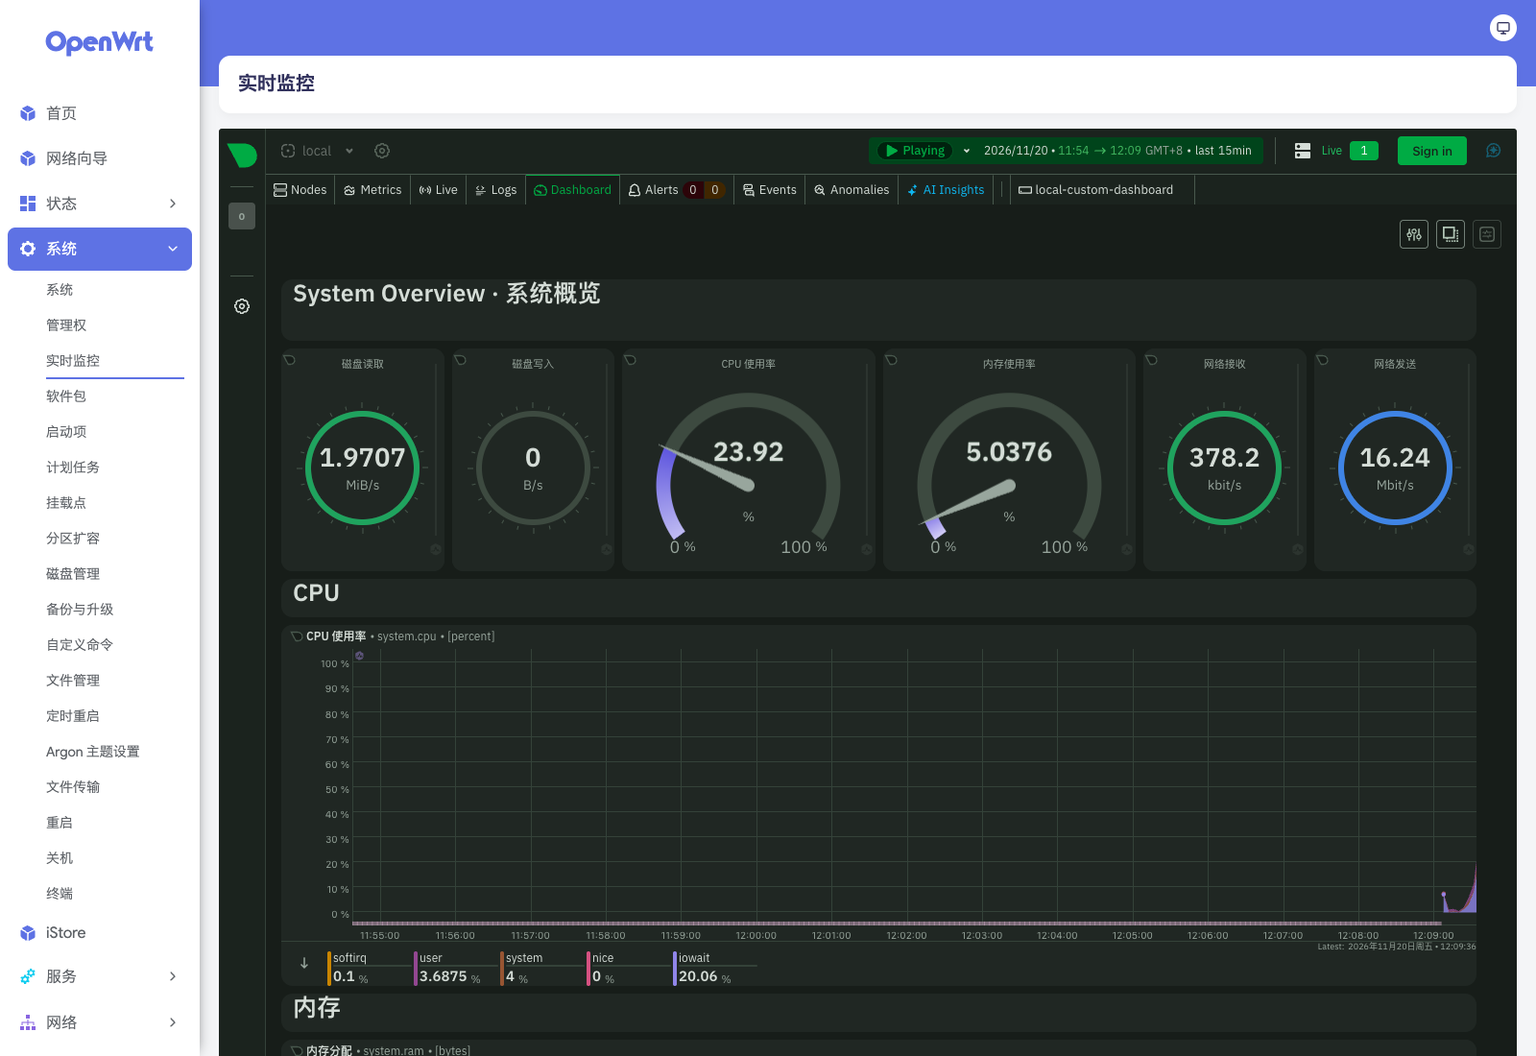
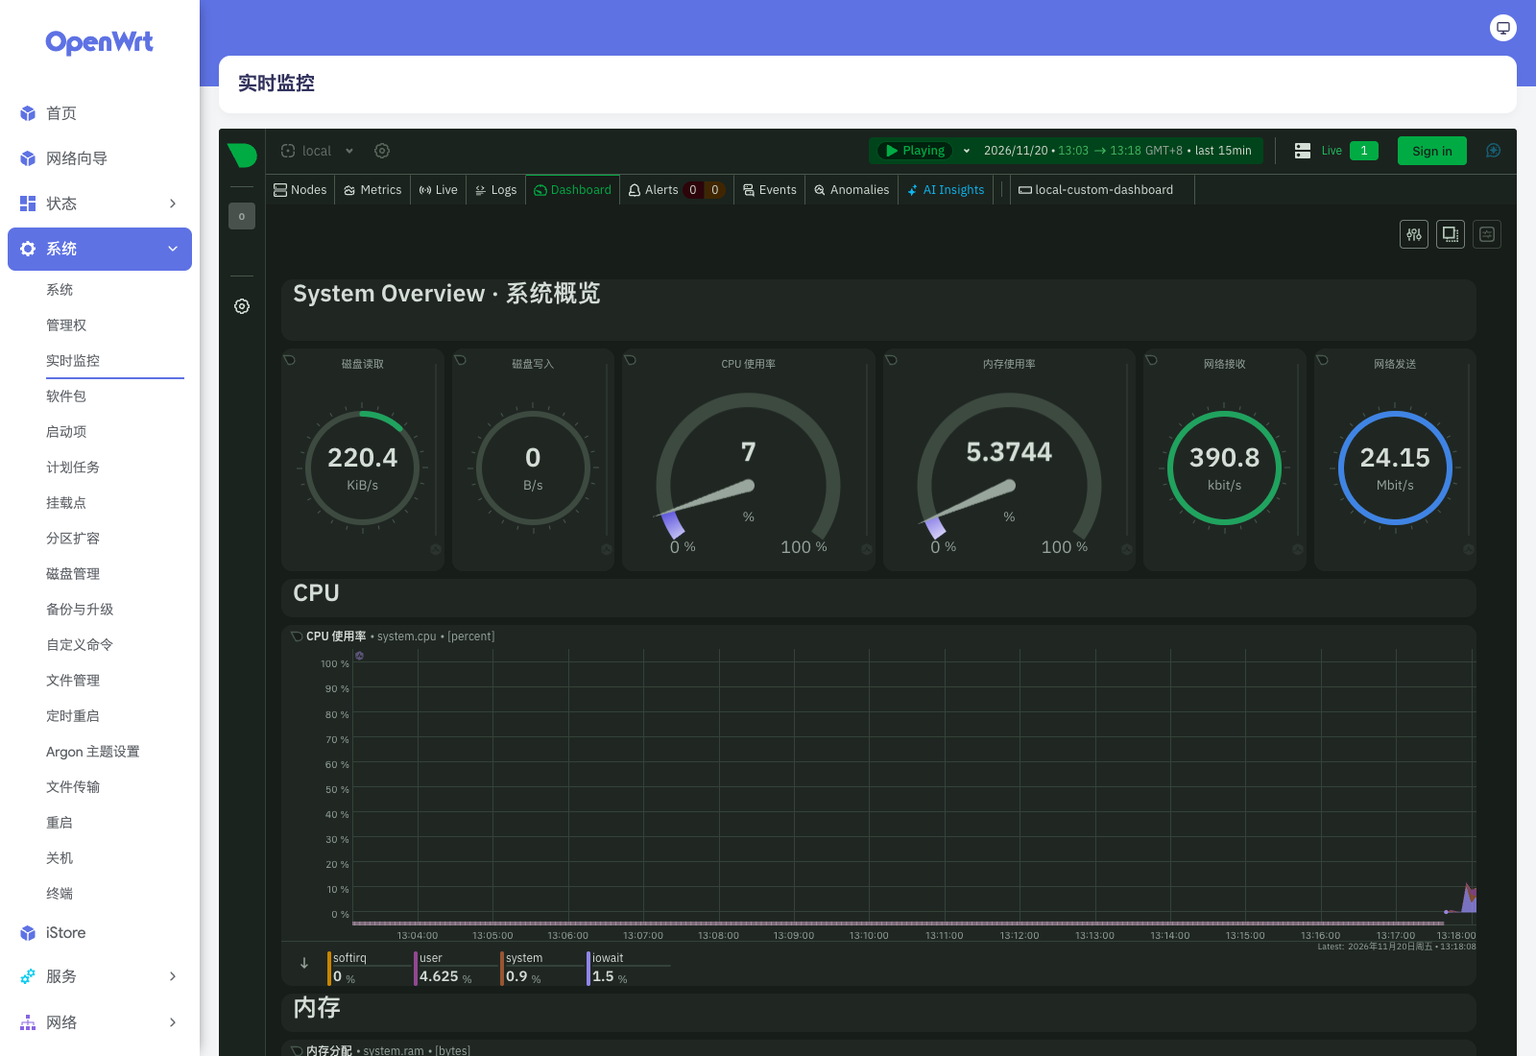
Record final offline image and per-interface acceptance for release .2

diff --git a/docs/netdata-overview-acceptance-20261120.md b/docs/netdata-overview-acceptance-20261120.md
@@ -1,67 +1,81 @@
-# Netdata 预置概览：实现与最终镜像验收
+# Netdata 原生概览与逐接口流量验收
 
-本轮完成了 Netdata 的本地模板初始化，保留 **2.13.0 原生 Dashboard 和原生图表渲染器**。LuCI「系统 → 实时监控」默认打开六仪表、CPU、内存、磁盘、网络和传感器分组的 System Overview。
+[v25.12.6-20261120.2](https://github.com/jearton/openwrt-pro/releases/tag/v25.12.6-20261120.2) 保留 **Netdata 2.13.0 原生 Dashboard、图表渲染器和编辑器**，通过随固件打包的模板初始化每个新浏览器。LuCI「系统 → 实时监控」默认显示 System Overview、六仪表、CPU、内存、磁盘、网络和传感器分组。
 
-此前[原生能力验证](netdata-native-dashboard-validation-20261120.md)中“换浏览器自动读取布局”未通过；本轮新增初始化适配后通过。不是把此前失败改写为成功，也没有恢复已归档的旧版前端。
+此前[原生能力验证](netdata-native-dashboard-validation-20261120.md)中“换浏览器自动读取布局”未通过；本轮补齐初始化后通过。未恢复已归档的旧版前端。先前 r4 的草稿制品没有发布，本次最终制品为 r5，包含逐接口增强。
+
+## 网络部分
+
+- 原生 `network-interfaces` 表格分别显示每个接口的收发速率、包速率、丢包和状态；可按名称、类型筛选和排序。接口名较长时可调整原生列宽。
+- 两张原生曲线分别显示 **逐接口 RX、逐接口 TX**，按 `net.net` 的 instance 分组，不把全部接口压成一个总量。
+- 物理口、网桥、VLAN、veth、隧道、bond 聚合口与成员口各自呈现。原生 Type 列区分 physical / virtual，具体接口按名称识别，不将网桥、bond、VLAN伪装成物理接口。
+- 新增接口自动发现，无须重新导入布局。保留 `lo`、IFB 等默认会被跳过的接口；部分新虚拟接口存在上游 **40 秒发现延迟**，未修改采集核心来绕过该机制。
+- 同一数据包会经过物理口、bond、VLAN、网桥等多层，**不能直接相加当作总流量**。
+
+最终镜像的隔离实验在页面已经打开后创建 bond、两个 veth 成员、VLAN、WireGuard 和 IFB。表格与历史曲线自动发现全部 10 个接口；4 Mbit/s TCP 试验中，bond、VLAN 和活动成员分别采到 4.20 Mbit/s，备用成员和未发流量的接口为 0。测试后删除全部临时接口、命名空间及 iperf 进程，网络、防火墙、DHCP 配置摘要保持不变。[逐接口证据](evidence/netdata-overview-20261120/interfaces.json)。
+
+![最终镜像：各接口实时流量](images/netdata-overview-20261120/interfaces-live.png)
+
+![最终镜像：逐接口 RX/TX 曲线](images/netdata-overview-20261120/interfaces-curves.png)
 
 ## 实现与升级维护
 
-- [preset.json](../packages/netdata/files/overview/preset.json) 随固件提供默认布局；[bootstrap.js](../packages/netdata/files/overview/bootstrap.js) 在原生应用启动前初始化当前浏览器的 IndexedDB，然后进入原生 Dashboard。
-- 两个全新浏览器分别自动获得相同预置布局。**个人修改仍在各自浏览器保存，不跨浏览器同步**；重新进入入口或重启路由器不会覆盖已保存布局，包括主动清空的布局。
-- 只初始化原生未保存的空白记录。遇到未知存储格式或存储被禁用时显示重试和完整指标页入口，不静默覆盖数据。
-- 适配固定于 Netdata 2.13.0 的原生缓存结构和路由规则。默认主机名 OpenWrt 对应原生 slug `openwrt`，不能直接把显示名称拼入路由。
-- [资源准备脚本](../packages/netdata/prepare-overview.py) 将页面资源限制为本地来源，并补齐原生字体的根路径；不修改原生 JS 渲染代码。浏览器对云、registry 等外部资源的尝试由 CSP 阻断，不影响本地图表。
-- [提取脚本](../packages/netdata/extract-asset.sh) 解析 makeself 资产声明的边界，不执行上游安装器；2.13.0 的头部为 838 行。
-- [概览打包补丁](../patches/custom-ipv4/netdata-overview.patch) 将初始化文件打进 Netdata 2.13.0-r4；[LuCI 补丁](../patches/custom-ipv4/netdata-luci-bundled-dashboard.patch) 升为 0.1-r2，标题为“实时监控”，默认入口包含资源版本标识。
+[preset.json](../packages/netdata/files/overview/preset.json) 提供版本 2 模板；[bootstrap.js](../packages/netdata/files/overview/bootstrap.js) 在原生应用启动前初始化 IndexedDB，再进入本机原生 Dashboard。默认 OpenWrt 主机名对应原生 slug `openwrt`，不能直接将显示名称拼入路由。
 
-后续升级核心时必须重新验证原生缓存结构、空间 slug 和图表参数；仅修改版本号不足以确认兼容。[浏览器验收脚本](../scripts/check-netdata-overview.cjs)和 [CI 工作流](../.github/workflows/check-netdata.yml)会运行真实原生页面，检查新浏览器初始化、实时 API 数值、原生编辑保存和存储失败回退。
+两个空白浏览器会获得相同模板。个人修改在各浏览器独立保存，**不跨浏览器同步**。原生 Save 后的布局、主动清空的布局均保留；升级模板不会覆盖已有个人布局。未知缓存结构或禁用存储时显示恢复入口，不静默覆盖记录。
+
+接口函数卡必须绑定当前 Agent 的节点 ID。初始化动态读取本机 ID；后续身份变化时，只重新绑定属于本模板、仍指向此前本机的函数卡，不重置个人布局或覆盖用户手动选择的其他节点。
+
+[资源准备脚本](../packages/netdata/prepare-overview.py) 限制页面资源为本地来源，补齐原生字体的根路径；不改原生 JS 渲染代码。云、registry 等外部资源由 CSP 阻断，不影响本地图表。[资产提取脚本](../packages/netdata/extract-asset.sh) 仅解析 makeself 声明的边界，不执行上游安装器。
+
+[概览补丁](../patches/custom-ipv4/netdata-overview.patch) 将资源打进 **Netdata 2.13.0-r5**；[LuCI 补丁](../patches/custom-ipv4/netdata-luci-bundled-dashboard.patch) 为 **0.1-r3**，统一“实时监控”标题和默认地址。接口采集设置位于 [netdata.conf](../packages/netdata/files/netdata.conf)。完整定制见[补丁索引](../patches/README.md)。
+
+核心升级后必须重新验证原生缓存结构、路由、图表参数和函数节点绑定。[浏览器验收脚本](../scripts/check-netdata-overview.cjs)与[CI](../.github/workflows/check-netdata.yml)运行真实原生页面，等待有效采样后检查，不把 HTTP 200 当作实时图表通过。
 
 ## 最终制品
 
-[v25.12.6-20261120.1](https://github.com/jearton/openwrt-pro/releases/tag/v25.12.6-20261120.1) 基于既有 OpenWrt 25.12.6 x86/64 方案，含 469 个包。除 Netdata 2.13.0-r4、LuCI 0.1-r2 及随包界面资源，本轮没有改变既有网络功能、DNS 策略或终端认证方案。内核模块与打包内核 ABI 逐项匹配；`kmod-bonding` 保留。
+基于 OpenWrt 25.12.6 x86/64，含 469 个包。除 Netdata、LuCI 入口、概览及接口采集默认值，本轮未改变已有 DNS、终端认证或网络策略。全部包版本和内核模块 ABI 逐项匹配；`kmod-bonding` 保留。
 
 | 制品 | SHA256 |
 | --- | --- |
[6 lines of base64/hex data omitted]
 
-同一镜像经过 189、PVE、Mac 校验。PVE 导入后的全新磁盘在首次启动前也与原始镜像 SHA256 一致。先前测试盘没有作为最终产物发布。
+189、PVE、Mac 的同一制品均校验一致。导入全新 disk-21 后，在首次启动前再次核对原始磁盘摘要一致。没有将配置过的实验盘作为发布产物。
 
-## 验收结果
+## 最终镜像验收
 
-在 9000 导入上述最终镜像到新磁盘首次启动，只设置实验 LAN 和实验登录凭证。验收时虚拟 WAN 网卡断开，路由器仅有实验 LAN 路由，**没有默认路由**；Mac Chrome 同时阻断所有非本地页面请求。
+9000 全新安装上述镜像，仅设置实验 LAN 和实验登录凭证。测试时 WAN 网卡断开，路由器只有实验 LAN 路由，**无默认路由**；自动化 Chrome 同时阻断非本地来源，Safari 使用实际 macOS 原生应用。
 
 | 项目 | 结果 | 证据 |
 | --- | --- | --- |
-| 最终镜像全新安装与默认自启 | 通过 | 实际运行 Netdata 2.13.0-r4、LuCI 0.1-r2；Netdata、ttyd 为 running |
-| 离线，无云账号 | 通过 | WAN 断开；全新 Chrome 加载随包资源，六个原生仪表与曲线显示；`/api/v3/me` 为 `auth:none`、云账号为 null |
-| 换浏览器自动加载预置布局 | 通过 | 两份相互独立的 Chrome 存储获得相同布局；实际 Safari 在新的来源首次访问也自动显示预置概览，没有手工导入 |
-| LuCI 默认页面与中文标题 | 通过 | 从实际“系统 → 实时监控”页面进入，标题为实时监控，iframe 自动进入原生 Dashboard |
-| 实时数据 | 通过 | CPU、RAM、系统磁盘 I/O、网络 API 返回有限数值并绘图，不仅检查 HTTP 200 |
-| 原生编辑和个人布局保留 | 通过 | 使用原生编辑器修改、Save 后重新进入默认入口，记录不被重置 |
-| 路由器离线重启 | 通过 | Netdata、ttyd 自动启动；旧浏览器保留修改且恢复实时 CPU 数值，全新浏览器自动初始化 |
-| 存储异常恢复 | 通过 | 禁止 IndexedDB 时出现恢复入口；未知记录保留，不覆盖 |
-| IPv6 和实验 LAN | 通过 | 内核 `ipv6.disable=1`，无 IPv6 地址文件；实验桥保持无物理上联，9001 保持关闭 |
+| 全新启动、自启 | 通过 | Netdata 2.13.0-r5、LuCI 0.1-r3；Netdata、ttyd 均 running |
+| 离线、无云账号 | 通过 | 本地资源显示六仪表和曲线；`/api/v3/me` 为 `auth:none`、云账号 null |
+| 换浏览器自动初始化 | 通过 | 两份独立 Chrome 存储布局相同；实际 Safari 首次访问自动加载概览、接口表和 RX/TX |
+| LuCI 默认入口、中文标题 | 通过 | 从实时监控进入原生 Dashboard，标题为“实时监控” |
+| 实时数据和逐接口图表 | 通过 | CPU/RAM/I/O/网络 API 有有限数值；10 个动态接口及实际试验流量验证 |
+| 原生编辑保存 | 通过 | 修改并 Save 后重新进入保留；本机函数重新绑定不覆盖个人记录 |
+| 离线重启 | 通过 | 服务自动启动；旧浏览器保留修改且接口表恢复；全新浏览器 8 项检查再次通过 |
+| 存储异常 | 通过 | 未知记录保留；拒绝 IndexedDB 时显示恢复入口 |
+| IPv6、实验隔离与清理 | 通过 | IPv6 禁用；桥无物理上联；9001 保持关闭；临时密钥、Agent、代理和转发均撤销 |
 
-[自动化浏览器结果](evidence/netdata-overview-20261120/browser.json)、[重启服务结果](evidence/netdata-overview-20261120/reboot.json)、[重启后原浏览器结果](evidence/netdata-overview-20261120/reboot-browser.json)。CI 的[仓库检查](https://github.com/jearton/openwrt-pro/actions/runs/44672136940)和[原生浏览器检查](https://github.com/jearton/openwrt-pro/actions/runs/44672137181)均通过。该浏览器 CI 使用独立 Linux Agent；PVE 的全新镜像验收是另外执行的，二者没有混称。
+[首次浏览器结果](evidence/netdata-overview-20261120/browser.json)、[LuCI](evidence/netdata-overview-20261120/luci.json)、[Safari](evidence/netdata-overview-20261120/safari.json)、[重启服务](evidence/netdata-overview-20261120/reboot.json)、[重启后原浏览器](evidence/netdata-overview-20261120/reboot-browser.json)、[重启后全新浏览器](evidence/netdata-overview-20261120/reboot-browser-fresh.json)。
 
-## 截图
-
-最终镜像的 LuCI 默认入口，尚未修改浏览器布局：
+代码提交 bf72ec0 的[原生浏览器 CI](https://github.com/jearton/openwrt-pro/actions/runs/44679379571)和[仓库 CI](https://github.com/jearton/openwrt-pro/actions/runs/44679379448)通过。浏览器 CI 使用独立 Linux Agent；189 的镜像构建、PVE 全新安装与 GitHub 完整源码构建是独立证据，不混称。此前[完整源码 CI 基线](https://github.com/jearton/openwrt-pro/actions/runs/44575439007)通过，不能将其称为本次 r5 的完整源码构建结果。
 
 ![LuCI 默认 System Overview](images/netdata-overview-20261120/luci-overview.png)
 
-使用原生编辑器修改后，路由器离线重启，原浏览器保留布局和实时图表：
+![实际 Safari 离线首次加载](images/netdata-overview-20261120/safari-overview.png)
 
-![重启后保留个人布局](images/netdata-overview-20261120/reboot-preserved.png)
+![离线重启后保留个人布局](images/netdata-overview-20261120/reboot-preserved.png)
 
 ## 边界与回滚
 
-本轮“通过”针对上述 Netdata 要求。实际物理温度、RPM、传感器驱动和吞吐性能未在 VM 中验收；没有指标时显示“未检测到指标”，不伪造零值。本轮 LuCI 嵌入验收使用 HTTP，未新增 HTTPS 监控嵌入适配。
+上述“通过”针对本轮 Netdata 要求。物理温度、RPM、驱动和吞吐性能未在 VM 验收；缺少传感器数据时显示“未检测到指标”，不伪造零值。LuCI 监控嵌入本轮使用 HTTP，未新增 HTTPS 适配。
 
-固件原有的 **Technitium DNSSEC 与默认 AliDNS DoH 对部分域名产生 SERVFAIL** 的问题仍未修复，见[既有扩展验收](vm-extended-validation-20261120.md)。不能据此报告固件所有功能全部通过。
+既有 **Technitium DNSSEC 与默认 AliDNS DoH 对部分域名返回 SERVFAIL** 的问题尚未修复，见[扩展验收](vm-extended-validation-20261120.md)。本次不能报告全部固件功能通过。
 
-升级前保留旧系统盘和配置。PVE 原 disk-16 保留，新镜像使用 disk-19；异常可在 9000 关机后切回原盘。物理机回滚优先使用保留的旧启动盘。当前浏览器个人布局可用原生编辑器导出；切换 Agent 版本前也应备份，不手工删除来源不明的浏览器记录。
+9000 保留最终 disk-21 运行，原 disk-16 以及中间测试盘保留；异常时关机切回旧盘。物理机升级前备份配置并保留旧启动盘。浏览器个人布局可用原生编辑器导出，不删除来源不明的记录。
 
-结束状态：9000 保留最终镜像 disk-19 运行，原 disk-16 作为回滚盘保留；验收用 WAN 断链已恢复，9001 仍关闭。13 台非目标 VM 配置和宿主路由逐项核对未变。[隔离回读](evidence/netdata-overview-20261120/isolation.json)。临时普通用户 Agent、浏览器代理和本次管理密钥在验收后关闭或撤销。
+验收后恢复实验 WAN 链路，9001 仍关闭；13 台非目标 VM 配置摘要、宿主路由和 9001 运行配置未变。9001 的说明文字回读从注释形式变成 description 字段，运行配置比较排除该显示格式差异，没有向该 VM 执行配置写入。[隔离回读](evidence/netdata-overview-20261120/isolation.json)、[清理结果](evidence/netdata-overview-20261120/cleanup.json)。

diff --git a/README.md b/README.md
@@ -2,7 +2,7 @@
 
 基于 OpenWrt 25.12.6 x86/64 的 IPv4 路由器定制方案。使用 APK，内置 LuCI、实时监控和原生 Technitium DNS。默认禁用 IPv6，镜像验收使用独立实验 LAN。AdGuard Home 随镜像提供，默认停用。
 
-最新发布：[v25.12.6-20261120.1](https://github.com/jearton/openwrt-pro/releases/tag/v25.12.6-20261120.1)。新增 Netdata 2.13.0 原生 System Overview，预置布局可离线、无云账号、跨浏览器自动初始化；[本轮镜像验收](docs/netdata-overview-acceptance-20261120.md)。含 `kmod-bonding`，Netdata、ttyd 默认自启；终端每次要求系统登录并填满窗口剩余高度。查看[登录与终端基线验收](docs/acceptance-20261120.md)及[补丁清单](patches/README.md)。
+最新发布：[v25.12.6-20261120.2](https://github.com/jearton/openwrt-pro/releases/tag/v25.12.6-20261120.2)。新增 Netdata 2.13.0 原生 System Overview、全部网络接口实时表格和逐接口 RX/TX 曲线，预置布局可离线、无云账号、跨浏览器自动初始化；[本轮镜像验收](docs/netdata-overview-acceptance-20261120.md)。含 `kmod-bonding`，Netdata、ttyd 默认自启；终端每次要求系统登录并填满窗口剩余高度。查看[登录与终端基线验收](docs/acceptance-20261120.md)及[补丁清单](patches/README.md)。
 
 已知问题：扩展验收发现默认 AliDNS DoH 配合 Technitium DNSSEC 校验时，部分公网域名返回 SERVFAIL，尚未修复。不能将本版本标为全部功能验收通过；通过项目、实验配置和未验证范围见[VM 扩展验收](docs/vm-extended-validation-20261120.md)。
 
@@ -46,7 +46,7 @@
 
 ### 本项目的补丁和调整
 
-- **Netdata**补上容器网卡采集器和配套脚本，修正配置权限，LuCI 默认加载预置 System Overview；初始化浏览器原生 Dashboard，保留个人布局，限制资源为本地来源。
+- **Netdata**补上容器网卡采集器和配套脚本，修正配置权限，LuCI 默认加载预置 System Overview；初始化浏览器原生 Dashboard，保留个人布局，限制资源为本地来源；分别显示物理口、网桥、VLAN、虚拟接口、bond 及其成员的流量，新增接口自动发现。
 - **LuCI**修正文件管理器布局和 iptables 后端识别，调整 DHCP/DNS、Macvlan 和实时监控的菜单入口。
 - **启动和首页**默认禁用 IPv6。Netdata 和 ttyd 随系统启动并监听 LAN。网页终端先校验 LuCI 会话和 WebSocket 来源，再要求每次输入系统用户名、密码；空密码不放行，并按窗口剩余高度展开。Quickstart 隐藏存储、下载和远程域名卡片。
 - **打包和兼容性**调整 Tailscale 配置文件归属、FileTransfer 的 APK 支持、EQoS 的 x86 构建、EQoS Plus 的 Bash 依赖、mwan3 的构建依赖，并固定 Technitium、Mihomo、DDNS-GO 和 Go 的构建输入。

diff --git a/patches/README.md b/patches/README.md
@@ -4,7 +4,7 @@
 
 | 组件 | 补丁 |
 | --- | --- |
-| Netdata | [配置权限](custom-ipv4/netdata-config-readable.patch)、[容器网卡采集](custom-ipv4/netdata-container-network.patch)、[原生概览打包](custom-ipv4/netdata-overview.patch)、[LuCI 本地仪表盘和「实时监控」标题](custom-ipv4/netdata-luci-bundled-dashboard.patch)；Netdata 2.13.0-r4 包含[本地模板与初始化适配](../packages/netdata/files/overview)、[CSP 与本地字体处理](../packages/netdata/prepare-overview.py)；LuCI 0.1-r2 默认打开原生概览。兼容性边界与验收见[记录](../docs/netdata-overview-acceptance-20261120.md) |
+| Netdata | [配置权限](custom-ipv4/netdata-config-readable.patch)、[容器网卡采集](custom-ipv4/netdata-container-network.patch)、[原生概览打包](custom-ipv4/netdata-overview.patch)、[LuCI 本地仪表盘和「实时监控」标题](custom-ipv4/netdata-luci-bundled-dashboard.patch)；Netdata 2.13.0-r5 包含[本地模板与初始化适配](../packages/netdata/files/overview)、[CSP 与本地字体处理](../packages/netdata/prepare-overview.py)；LuCI 0.1-r3 默认打开原生概览，含逐接口实时表格与 RX/TX 历史曲线；本机节点身份变化时只更新预置函数卡的节点绑定，保留个人布局。兼容性边界与验收见[记录](../docs/netdata-overview-acceptance-20261120.md) |
 | ttyd | [LAN 监听、LuCI 会话、WebSocket 权限校验和 DER/PEM 证书适配](custom-ipv4/ttyd-luci-session.patch)；r6 保留证书适配、每次系统登录及空密码拒绝；LuCI TLS 监听仅协商 HTTP/1.1，避开 Chrome HTTP/2 WebSocket 的 Origin 误拒绝；[配置迁移](../sources/full/files/etc/uci-defaults/93-ttyd-luci-session)；[LuCI 协议适配与自适应终端高度](../image-files/network-ui/www/luci-static/resources/view/ttyd/term.js) |
 | LuCI | [iptables 后端识别](custom-ipv4/luci-nftables-legacy-warning.patch)、[文件管理样式](custom-ipv4/luci-filemanager-layout.patch) |
 | Tailscale | [Tailscale 文件归属](custom-ipv4/tailscale-file-ownership.patch) |

diff --git a/manifests/README.md b/manifests/README.md
@@ -1,13 +1,13 @@
 # x86/64 镜像清单
 
-本目录对应 [v25.12.6-20261120.1](https://github.com/jearton/openwrt-pro/releases/tag/v25.12.6-20261120.1)，包含 469 个包，189 Linux 增量构建。
+本目录对应 [v25.12.6-20261120.2](https://github.com/jearton/openwrt-pro/releases/tag/v25.12.6-20261120.2)，包含 469 个包，189 Linux 增量构建。
 
-Netdata 2.13.0-r4、LuCI Netdata 0.1-r2 使用预置原生 System Overview，离线、无云账号、换浏览器自动初始化，并保留个人布局。其余功能沿用既有版本：Technitium 15.6.2-r2、Console 1.4.2、LuCI Technitium 1.1.0-r1、Argon 3.1.4、ttyd 1.7.7-r6、kmod-bonding。IPv6 禁用，AdGuard Home 默认停用，Docker 不在镜像内。
+Netdata 2.13.0-r5、LuCI Netdata 0.1-r3 使用预置原生 System Overview，离线、无云账号、换浏览器自动初始化，并保留个人布局。其余功能沿用既有版本：Technitium 15.6.2-r2、Console 1.4.2、LuCI Technitium 1.1.0-r1、Argon 3.1.4、ttyd 1.7.7-r6、kmod-bonding。IPv6 禁用，AdGuard Home 默认停用，Docker 不在镜像内。
 
-压缩 EFI 镜像为 173922242 字节，SHA256：
+压缩 EFI 镜像为 173922628 字节，SHA256：
 
 ```text
[2 lines of base64/hex data omitted]
 ```
 
 [本轮最终镜像验收](../docs/netdata-overview-acceptance-20261120.md)记录准确范围、截图和回滚点。该验收不代表既有 DNSSEC 问题已修复，也不覆盖物理传感器和所有网络功能重新测试。此前 v25.12.6-20261120 的镜像和附件保持不变。

diff --git a/docs/releases.md b/docs/releases.md
@@ -3,11 +3,11 @@
 GitHub Packages 用 OCI 制品存储 EFI 固件、APK 清单和 SHA-256 校验和。使用 ORAS 下载并核对校验和：
 
 ```sh
-oras pull ghcr.io/jearton/openwrt-pro/firmware:v25.12.6-20261120.1
+oras pull ghcr.io/jearton/openwrt-pro/firmware:v25.12.6-20261120.2
 sha256sum -c SHA256SUMS
 ```
 
-也可以从 [v25.12.6-20261120.1 的 GitHub Release](https://github.com/jearton/openwrt-pro/releases/tag/v25.12.6-20261120.1) 直接下载镜像和 SHA-256。
+也可以从 [v25.12.6-20261120.2 的 GitHub Release](https://github.com/jearton/openwrt-pro/releases/tag/v25.12.6-20261120.2) 直接下载镜像和 SHA-256。
 
 安装或升级前，先在隔离环境复验 EFI 启动、IPv6 禁用、LuCI 和 DNS。保留旧磁盘和配置备份。具体步骤见[固件方案](firmware.md)。
 
